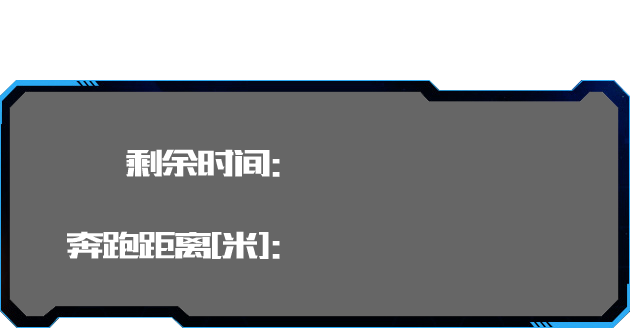
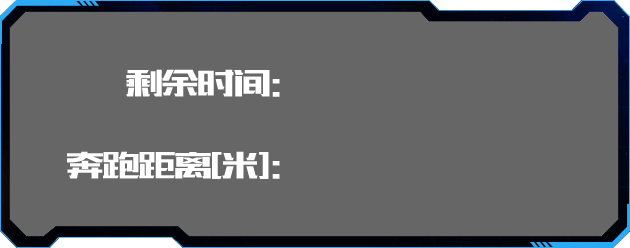
a

diff --git a/game-run-score/css/score.css b/game-run-score/css/score.css
@@ -13,7 +13,6 @@ body {
 .re-container {
   height: 100%;
   position: relative;
-  padding-top: 1.333333rem;
 }
 .re-timing {
   background: url(../img/number-t.png) no-repeat;
@@ -97,10 +96,20 @@ body {
 .re-number_s {
   background-position: -4.666667rem 0;
 }
+.re-title {
+  position: absolute;
+  top: 1.306667rem;
+  background: url(../img/title.png) no-repeat 0 0;
+  background-size: cover;
+  width: 5.586667rem;
+  height: 0.613333rem;
+  left: 50%;
+  margin-left: -2.793333rem;
+}
 .re-countdown {
   display: none;
   position: absolute;
-  top: 1.333333rem;
+  top: 2.133333rem;
   background: url(../img/countdown.png) no-repeat 0 0;
   background-size: cover;
   width: 4.626667rem;
@@ -110,19 +119,19 @@ body {
 }
 .re-energy {
   display: none;
-  margin-left: auto;
-  margin-right: auto;
+  position: absolute;
+  top: 2.4rem;
   width: 8.4rem;
+  left: 50%;
+  margin-left: -4.2rem;
   height: 4.373333rem;
   background: url(../img/energy-bg.png) no-repeat;
   background-size: contain;
-  position: relative;
-  color: #fff;
 }
 .re-energy_timing {
   position: absolute;
   left: 3.973333rem;
-  top: 1.92rem;
+  top: 0.853333rem;
   font-size: 0.346667rem;
 }
 .re-energy_timing .re-number {
@@ -134,7 +143,7 @@ body {
 .re-energy_mileage {
   position: absolute;
   left: 3.973333rem;
-  top: 2.853333rem;
+  top: 1.786667rem;
 }
 .re-energy_mileage .re-number {
   margin-left: 0.04rem;
@@ -207,6 +216,9 @@ body {
 .re-step_1 .re-start {
   display: block;
 }
+.re-step_1 .re-title {
+  top: 3.733333rem;
+}
 .re-step_2 .re-countdown {
   display: block;
 }
@@ -222,5 +234,3 @@ body {
 .re-step_5 .re-energy {
   display: block;
 }
-
[1 lines of base64/hex data omitted]

diff --git a/game-run-power/css/power.css b/game-run-power/css/power.css
@@ -152,7 +152,6 @@ body {
   height: 100%;
   width: 100%;
   z-index: 100;
-  -webkit-transition: top 500ms;
   transition: top 500ms;
 }
 .re-complete_title {
@@ -224,5 +223,3 @@ body {
 .re-step_6 .re-complete_mask {
   display: block;
 }
-
[1 lines of base64/hex data omitted]

diff --git a/game-run-score/less/score.less b/game-run-score/less/score.less
@@ -1,11 +1,20 @@
 @import "functions";
 @import "common";
 @import "number";
-
+.re-title {
+  position: absolute;
+  top: rem(98);
+  background: url(../img/title.png) no-repeat 0 0;
+  background-size: cover;
+  width: rem(419);
+  height: rem(46);
+  left: 50%;
+  margin-left: rem(-419/2);
+}
 .re-countdown {
   display: none;
   position: absolute;
-  top: rem(100);
+  top: rem(160);
   background: url(../img/countdown.png) no-repeat 0 0;
   background-size: cover;
   width: rem(347);
@@ -13,23 +22,21 @@
   left: 50%;
   margin-left: rem(-347/2);
 }
-
 .re-energy {
   display: none;
-  margin-left: auto;
-  margin-right: auto;
+  position: absolute;
+  top: rem(180);
   width: rem(630);
+  left: 50%;
+  margin-left: rem(-630/2);
   height: rem(328);
   background: url(../img/energy-bg.png) no-repeat;
   background-size: contain;
-  position: relative;
-  color: #fff;
 }
-
 .re-energy_timing {
   position: absolute;
   left: rem(298);
-  top: rem(144);
+  top: rem(64);
   font-size: rem(26);
   .re-number {
     width: rem(17);
@@ -38,17 +45,15 @@
     margin-right: rem(2);
   }
 }
-
 .re-energy_mileage {
   position: absolute;
   left: rem(298);
-  top: rem(214);
+  top: rem(134);
   .re-number {
     margin-left: rem(3);
     margin-right: rem(3);
   }
 }
-
 .re-moon {
   background: url(../img/moon.png) no-repeat;
   background-size: cover;
@@ -115,6 +120,7 @@
 }
 .re-step_1 {
   .re-start { display: block; }
+  .re-title { top: rem(280); }
 }
 .re-step_2 {
   .re-countdown { display: block; }

diff --git a/game-run-score/index.html b/game-run-score/index.html
@@ -10,6 +10,7 @@
 <!--run energy-->
 <body class="re-step_1">
 <div class="re-container">
+  <div class="re-title"></div>
   <div class="re-countdown"></div>
   <div class="re-energy">
     <div class="re-energy_timing">

diff --git a/game-run-score/less/common.less b/game-run-score/less/common.less
@@ -14,5 +14,4 @@ body {
 .re-container {
   height: 100%;
   position: relative;
-  padding-top: rem(100);
 }
